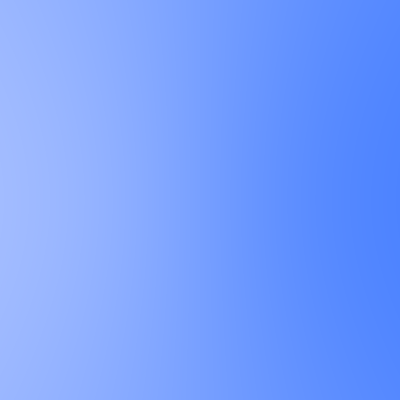
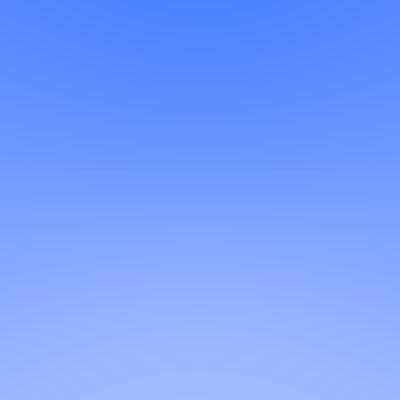
hm

diff --git a/main.py b/main.py
@@ -1,27 +1,21 @@
 import numpy as np
 from hittable import Sphere, Cylinder, Half_space
 from PIL import Image
+from linear_algebra import rotation_matrix_4d
+from spherical_geometry import geodesic, position, orientation
 
 width, height = 400, 400
 aspect_ratio = width / height
 
-camera_position = np.array([1.0, 0.0, 0.0, 0.0])
+Q = np.eye(4)  
+cam_pos = position(Q)
+right, up, back = orientation(Q)
 
-def tangent_basis(camera_pos):
-    basis = []
-    for i in range(4):
-        v = np.zeros(4)
-        v[i] = 1.0
-        v -= np.dot(v, camera_pos) * camera_pos
-        if np.linalg.norm(v) > 1e-6:
-            v /= np.linalg.norm(v)
-            basis.append(v)
-        if len(basis) == 3:
-            break
-    return np.array(basis)
-
-basis = tangent_basis(camera_position)  
-
+theta = np.pi / 16
+R = rotation_matrix_4d(0, 3, theta)
+Q = R @ Q
+cam_pos = position(Q)
+right, up, back = orientation(Q)
 
 objects = [
     Sphere(center=[-1, -1, -3, 0], radius=1, color=[255, 0, 0]),
@@ -44,9 +38,8 @@ for y in range(height):
         else:
             screen_y /= aspect_ratio
 
-        w = -1.0  # forward along basis[2]
-        tangent_vector = screen_x * basis[0] + screen_y * basis[1] + w * basis[2]
-        tangent_vector /= np.linalg.norm(tangent_vector)
+        ray_dir = screen_x * right + screen_y * up - back
+        ray_dir /= np.linalg.norm(ray_dir)
 
         t = 0.0
         max_t = np.pi  # maximum angular distance
@@ -56,8 +49,7 @@ for y in range(height):
         hit_obj = None
 
         for _ in range(max_steps):
-            p = np.cos(t) * camera_position + np.sin(t) * tangent_vector
-            p /= np.linalg.norm(p)
+            p = geodesic(cam_pos, ray_dir, t)
 
             min_d = np.inf
             for obj in objects:
@@ -67,10 +59,8 @@ for y in range(height):
                     hit_obj = obj
 
             if min_d < eps:
-                distance = min_d
                 color = hit_obj.color
                 break
-            
             t += min_d
             if t > max_t:
                 break
@@ -81,7 +71,7 @@ for y in range(height):
             shaded = hit_color  
             image[y, x] = np.clip(shaded, 0, 255).astype(np.uint8)
         else:
-            t_sky = 0.5 * (tangent_vector[1] + 1)
+            t_sky = 0.5 * (ray_dir[1] + 1)
             sky = (1 - t_sky) * np.array([180, 200, 255]) + t_sky * np.array([60, 120, 255])
             image[y, x] = sky.astype(np.uint8)
 

diff --git a/linear_algebra.py b/linear_algebra.py
@@ -15,7 +15,7 @@ def complete_tangent_basis(p):
     basis = []
     for i in range(4):
         v = np.zeros(4)
-        v[i] = 1.0
+        v[i] = 1.02
         v -= np.dot(v, p) * p  
         if np.linalg.norm(v) > 1e-6:
             v /= np.linalg.norm(v)
